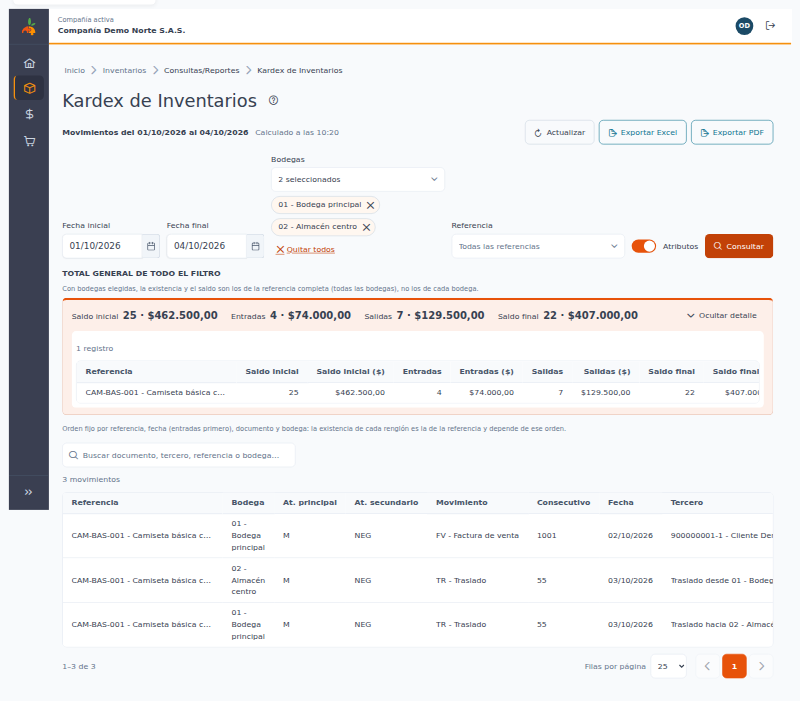
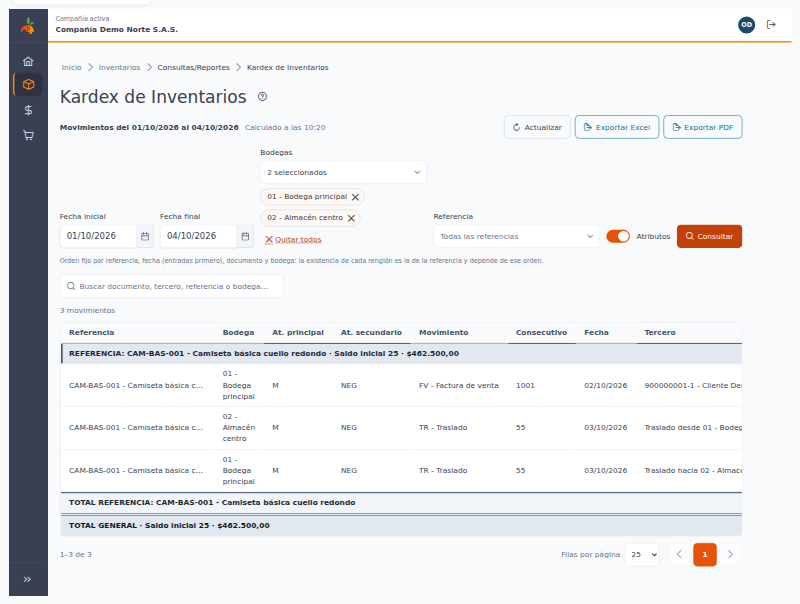
docs(inventarios): manual del Kardex con totales como filas grises dentro de la grilla y capturas con cifras
Claude-Session: https://claude.ai/code/session_017N4HDywEAusCCWDS58g4eW

diff --git a/v2026/inventarios/consultas/kardex-inventarios.md b/v2026/inventarios/consultas/kardex-inventarios.md
@@ -16,7 +16,7 @@
 
 ## 📋 Descripción
 
-Esta consulta muestra **cada entrada y cada salida de inventario** de un **periodo**, con la **existencia** que queda después de cada movimiento (en cantidad y en pesos), el **costo promedio** y los totales. Es de **solo lectura**: no crea ni cambia información. Puede **consultar, buscar, exportar a Excel y exportar a PDF**.
+Esta consulta muestra **cada entrada y cada salida de inventario** de un **periodo**, con la **existencia** que queda después de cada movimiento (en cantidad y en pesos), el **costo promedio** y los totales, que aparecen como **filas grises dentro de la tabla**. Es de **solo lectura**: no crea ni cambia información. Puede **consultar, buscar, exportar a Excel y exportar a PDF**.
 
 La existencia se lleva **por referencia**: suma **todas las bodegas y todas las variantes** (talla, color…) de esa referencia. Aunque consulte una sola bodega, la existencia que ve en cada renglón es la de la referencia completa (ver *Leer el resultado*).
 
@@ -96,7 +96,22 @@ El campo marca el error y no se consulta cuando:
 
 ![Resultado con atributos](../recursos/img/kardex-inventarios/02-con-atributos.png)
 
-1. **Panel de totales (sobre la tabla):** el título **TOTAL GENERAL de todo el filtro** muestra cuatro cifras de **todo** lo consultado, no solo de la página que ve, cada una en cantidad · pesos: **Saldo inicial**, **Entradas**, **Salidas** y **Saldo final**. Debajo, la tabla plegable **Totales de los grupos de esta página** trae los mismos cuatro totales para cada **referencia** que aparece en la página; esos totales son los de la referencia **completa**, aunque parte de sus movimientos esté en otra página. Puede plegar ese detalle y la pantalla recuerda cómo lo dejó.
+1. **Cómo se organiza la tabla:** los movimientos se agrupan **por referencia** y los totales son **filas grises dentro de la propia tabla**. No hay recuadro de totales sobre la tabla ni pie fijo.
+   - **Fila gris de encabezado de la referencia:** abre cada referencia y muestra su **Saldo inicial** (cantidad y pesos), es decir, lo que había antes de la fecha inicial.
+   - **Renglones de la referencia:** sus entradas y salidas, una por línea.
+   - **Fila gris TOTAL REFERENCIA:** cierra la referencia, **después de su último renglón**, con las **entradas**, las **salidas** y el **saldo final**, en cantidad y en pesos.
+   - **Fila gris TOTAL GENERAL:** es **la última fila de la tabla** y suma **todas** las referencias del filtro. Aparece **solo en la última página** (ver *Páginas y totales*).
+
+![Referencia con su encabezado, sus renglones y los totales](../recursos/img/kardex-inventarios/02-con-atributos.png)
+
+![Varias referencias en una página: cada una con su encabezado y su TOTAL REFERENCIA](../recursos/img/kardex-inventarios/22-varias-referencias.png)
+
+> 📜 **Las cifras están a la derecha.** La tabla es ancha: en pantallas pequeñas use el **desplazamiento horizontal** para ver las columnas **Entradas, Entradas ($), Salidas, Salidas ($), Costo promedio, Existencia y Existencia ($)**. Las cifras de las filas grises de total (entradas, salidas y saldo final) se leen en esas mismas columnas. Estas capturas muestran la tabla desplazada a la derecha:
+
+![Tabla desplazada a la derecha: cifras de TOTAL REFERENCIA y TOTAL GENERAL (entradas 4 · $74.000,00, salidas 7 · $129.500,00, saldo final 22 · $407.000,00)](../recursos/img/kardex-inventarios/24-cifras-totales.png)
+
+![Varias referencias, desplazada a la derecha: cada TOTAL REFERENCIA con sus cifras](../recursos/img/kardex-inventarios/26-cifras-varias-referencias.png)
+
 2. **Tabla de movimientos:** Referencia, Bodega, At. principal y At. secundario (solo con atributos), Movimiento, Consecutivo, Fecha, Tercero, Entradas, Entradas ($), Salidas, Salidas ($), **Costo promedio**, Existencia y Existencia ($). Puede elegir 10, 25, 50 o 100 filas por página (por defecto 25).
 3. **Existencia:** es el saldo de la **referencia** (todas sus bodegas y variantes) **después** de ese movimiento. Empieza en la existencia que tenía la referencia antes de la fecha inicial y suma entradas y resta salidas renglón por renglón. La aplicación calcula este saldo corrido sobre todos los movimientos de la referencia en el periodo.
 4. **Con filtro de bodegas, el saldo es el de la referencia completa.** Si elige solo la bodega 02, cada renglón muestra la existencia de la referencia en **todas** las bodegas, no la que quedó en la bodega 02. Por eso la existencia de un renglón puede no coincidir con lo que sumaría solo lo visible. Para ver cuánto hay en cada bodega use la consulta [Inventario por bodega](inventario-por-bodega.md).
@@ -110,7 +125,7 @@ El campo marca el error y no se consulta cuando:
 
 ![Existencia negativa](../recursos/img/kardex-inventarios/08-saldo-negativo.png)
 
-9. **En el celular:** cada renglón se muestra como una tarjeta con todas sus etiquetas, y el panel de totales queda apilado arriba.
+9. **En el celular:** cada renglón se muestra como una tarjeta con todas sus etiquetas, y las filas grises de encabezado y totales se ven como bandas entre las tarjetas.
 
 ![Vista en el celular](../recursos/img/kardex-inventarios/16-movil.png)
 
@@ -118,11 +133,31 @@ El campo marca el error y no se consulta cuando:
 
 ---
 
+## 📑 Páginas y totales
+
+- **Una referencia que sigue en otra página:** si una referencia tiene más renglones de los que caben en una página, su encabezado se repite al inicio de la página siguiente con la marca **(continúa)**, con el mismo saldo inicial de la referencia. **TOTAL REFERENCIA** aparece solo en la página donde termina la referencia, y trae los totales de la referencia **completa**, no solo de los renglones de esa página.
+- **TOTAL GENERAL solo en la última página:** en las páginas anteriores no hay fila TOTAL GENERAL. Sus cifras son las de **todo lo consultado**, no las de la página que está viendo. Para verlo, vaya a la última página.
+
+![Página que continúa: el encabezado dice (continúa) y todavía no hay total](../recursos/img/kardex-inventarios/10-pagina-que-continua.png)
+
+![Última página: cierra la referencia con TOTAL REFERENCIA y termina con TOTAL GENERAL](../recursos/img/kardex-inventarios/23-total-general.png)
+
+![Última página, desplazada a la derecha: las cifras de TOTAL REFERENCIA y de TOTAL GENERAL de todo el filtro](../recursos/img/kardex-inventarios/25-cifras-total-general.png)
+
+- **El conteo de la página** ("1–25 de 120") cuenta solo renglones de movimiento; las filas grises no cuentan.
+- **Con filtro de bodegas:** el **saldo inicial**, el **saldo final** y la existencia son los de la **referencia completa** (todas sus bodegas). Las **entradas y salidas** de las filas grises suman solo los movimientos de las bodegas elegidas. Por eso, con una bodega elegida, saldo inicial + entradas − salidas puede no ser igual al saldo final.
+- **Con búsqueda:** igual que con bodegas: las filas grises suman **solo los renglones encontrados** (entradas y salidas), y los saldos inicial y final siguen siendo los **reales** de cada referencia. En la captura, la búsqueda deja 2 renglones y la tabla está desplazada a la derecha: las filas de total suman solo esos 2, pero la existencia final (22) es la real de la referencia.
+
+![Búsqueda, desplazada a la derecha: totales de los renglones encontrados](../recursos/img/kardex-inventarios/27-cifras-busqueda.png)
+- Los archivos **Excel y PDF** traen las mismas filas de total (una **TOTAL** al final de cada referencia y la fila **TOTAL GENERAL**) de **todo** el resultado, no solo de una página.
+
+---
+
 ## 💲 Cómo se calcula el valor
 
 - **Entradas ($) y Salidas ($):** el valor de cada línea del movimiento, tal como quedó registrado en el documento.
 - **Costo promedio:** el costo promedio móvil de la referencia en ese renglón.
-- **Saldo inicial ($):** el valor de la existencia que tenía la referencia antes de la fecha inicial.
+- **Saldo inicial ($):** el valor de la existencia que tenía la referencia antes de la fecha inicial; se ve en la fila gris de encabezado de cada referencia.
 - **Existencia ($):** saldo inicial ($) + entradas ($) − salidas ($), renglón por renglón.
 
 Es la misma cifra en la pantalla, en el Excel y en el PDF.
@@ -187,7 +222,7 @@ Escriba en **Buscar documento, tercero, referencia o bodega…**. La búsqueda e
 
 ![Búsqueda](../recursos/img/kardex-inventarios/09-busqueda.png)
 
-La búsqueda **solo oculta renglones; no cambia la existencia**: cada renglón que queda visible muestra la existencia real de su referencia. Con una búsqueda aplicada, el panel lo indica: **entradas y salidas** suman solo los movimientos encontrados, y el **saldo inicial y el saldo final** son los reales de cada referencia. Los archivos exportados también respetan la búsqueda.
+La búsqueda **solo oculta renglones; no cambia la existencia**: cada renglón que queda visible muestra la existencia real de su referencia. Con una búsqueda aplicada, en las filas grises **TOTAL REFERENCIA** y **TOTAL GENERAL** las **entradas y salidas** suman solo los movimientos encontrados, y el **saldo inicial y el saldo final** son los reales de cada referencia (ver *Páginas y totales*). Los archivos exportados también respetan la búsqueda.
 
 Si nada coincide verá "Sin resultados para «…»" con el botón **Limpiar búsqueda**, y la exportación queda deshabilitada.
 
@@ -257,7 +292,8 @@ Si compara con el Kardex de la versión anterior, puede ver cifras distintas. **
 | **Costo** | No se mostraba. | Columna **Costo promedio** (promedio móvil) en cada renglón. |
 | **Orden** | Sin desempate; podía mezclar renglones. | Referencia, fecha (entradas primero), documento y bodega. |
 | **Valor de la existencia** | El valor en pesos arrancaba en 0 en pantalla y se sumaba varias veces en Excel; sin atributos se multiplicaba por el número de variantes. | Valor de cada línea con el saldo inicial en pesos; igual en pantalla, Excel y PDF; el saldo inicial se cuenta una vez. |
-| **TOTAL GENERAL** | Omitía la última referencia y algunos totales de grupo. | Se calcula sobre **todo** el filtro. |
+| **TOTAL GENERAL** | Omitía la última referencia y algunos totales de grupo. | Se calcula sobre **todo** el filtro y es la última fila gris de la tabla, en la última página. |
+| **Totales por referencia** | Se calculaban en el navegador y fallaban con varias páginas. | Fila gris **TOTAL REFERENCIA** tras el último renglón de cada referencia, con los totales de la referencia completa. |
 | **Referencias sin movimientos** | No aparecían. | Siguen sin aparecer (no hay renglón de saldo). |
 | **Datos incompletos del legado** | Algunas líneas se perdían sin explicación. | Siguen excluidas, pero esta ayuda explica por qué el saldo inicial puede no cuadrar (ver *Líneas excluidas y fechas incompletas*). |
 | **Tiempo de respuesta** | La pantalla podía quedarse esperando más de 40 minutos. | En compañías grandes se calcula en segundo plano, con aviso por la campana, "Calculado a las…" y **Actualizar**. |
@@ -281,6 +317,12 @@ Si compara con el Kardex de la versión anterior, puede ver cifras distintas. **
 **¿Por qué no aparece una referencia que sé que tiene existencia?** Las referencias sin movimientos en el periodo no aparecen.
 
 **¿Por qué el saldo inicial no cuadra al centavo con lo que veo?** Puede haber líneas de documentos con datos incompletos del legado o movimientos con fecha 01/01/0001 que cuentan en la existencia pero no se muestran (ver *Líneas excluidas y fechas incompletas*).
+
+**¿Por qué no veo el TOTAL GENERAL?** Aparece solo como última fila de la **última página**. Pase a la última página para verlo; sus cifras son las de todo el filtro.
+
+**¿Por qué una referencia dice "(continúa)" y no tiene total?** Sigue en la página siguiente; su TOTAL REFERENCIA aparece donde termina y es el de la referencia completa.
+
+**Con una bodega o una búsqueda, ¿por qué saldo inicial + entradas − salidas no da el saldo final?** El saldo inicial y el final son los de la referencia completa, y las entradas y salidas son solo las de lo que se ve (ver *Páginas y totales*).
 
 **¿Por qué no puedo ordenar por columna?** La existencia de cada renglón depende del orden; si se cambiara, el saldo dejaría de tener sentido.
 
